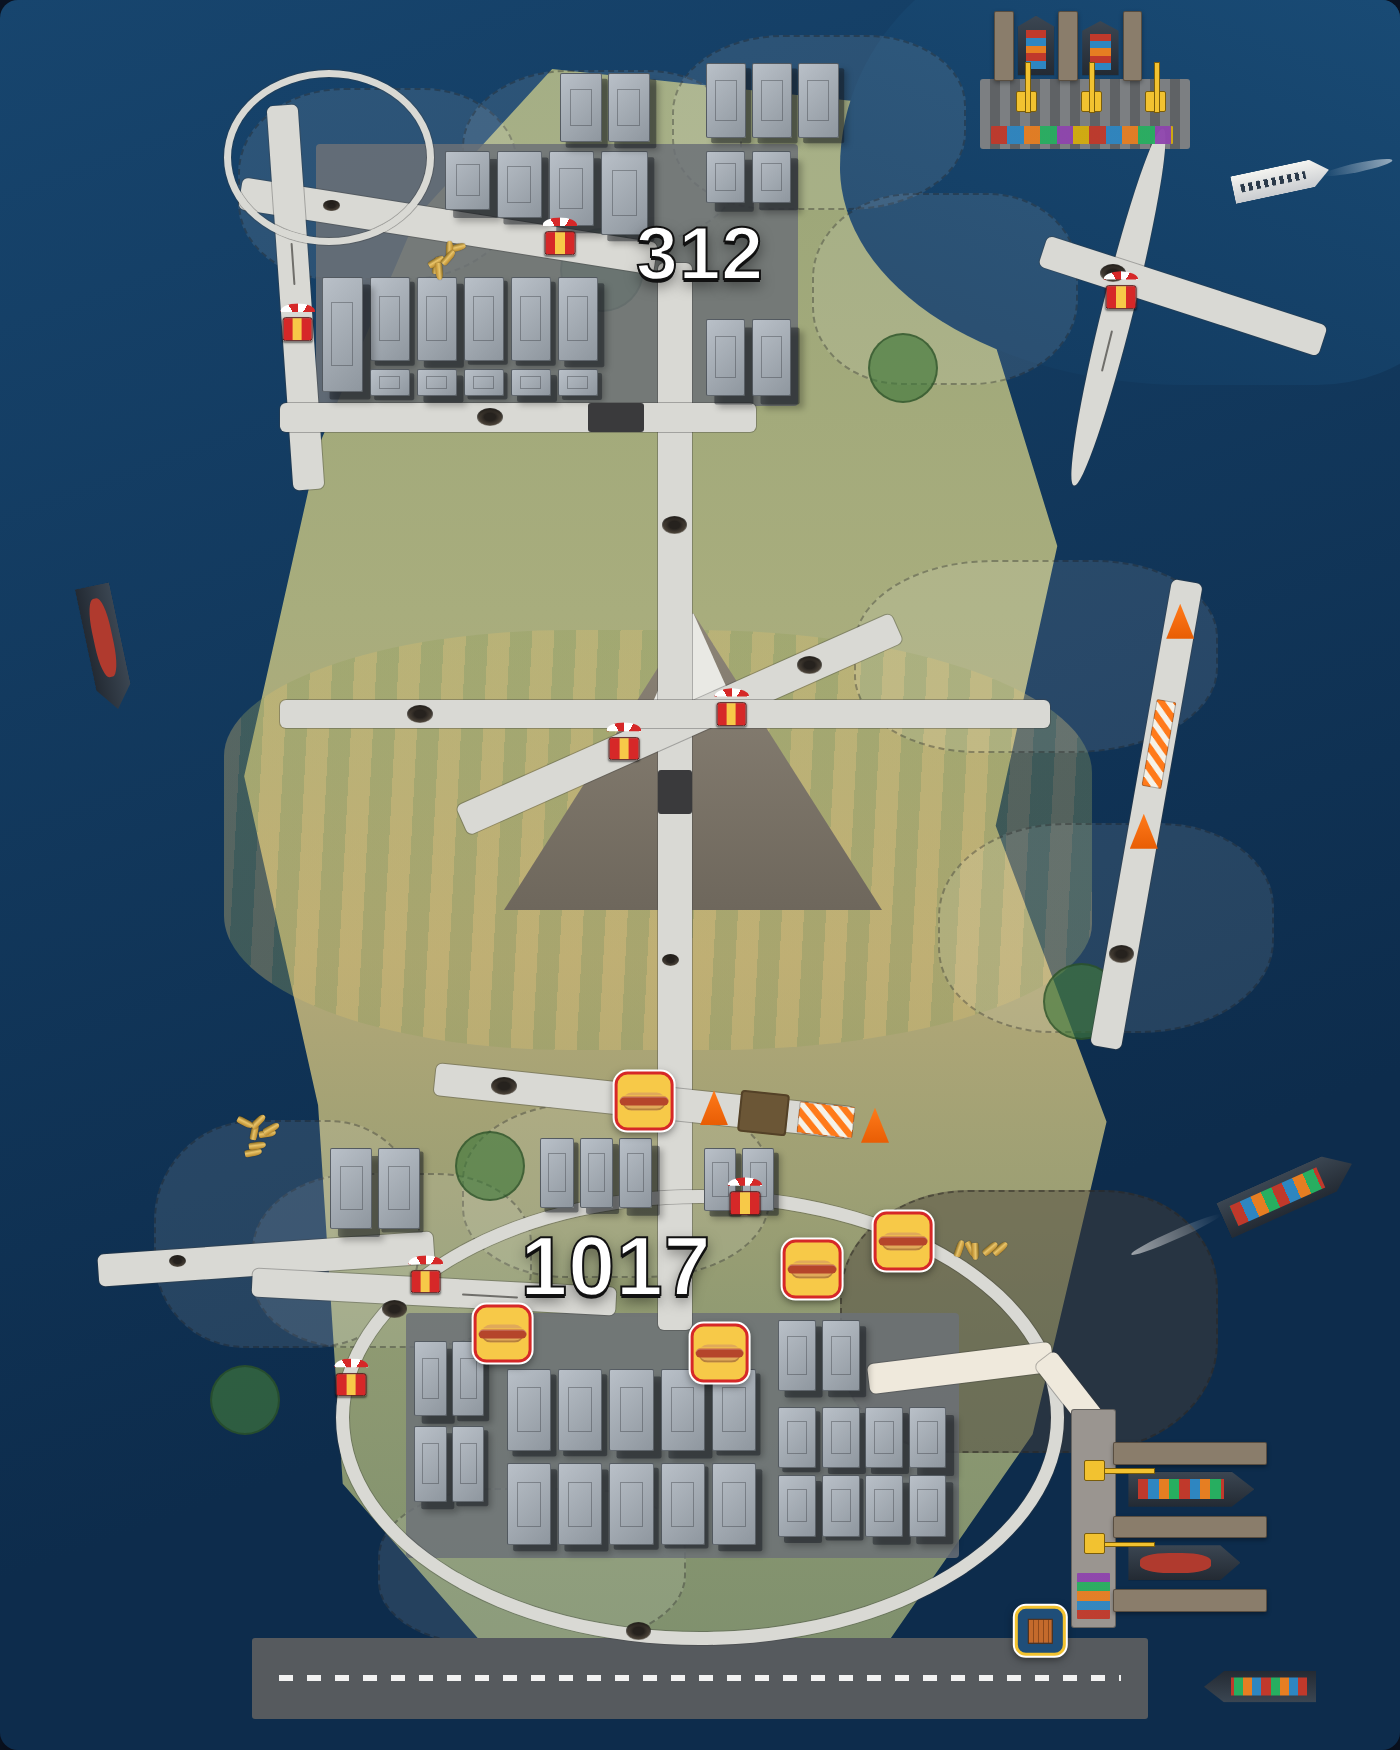
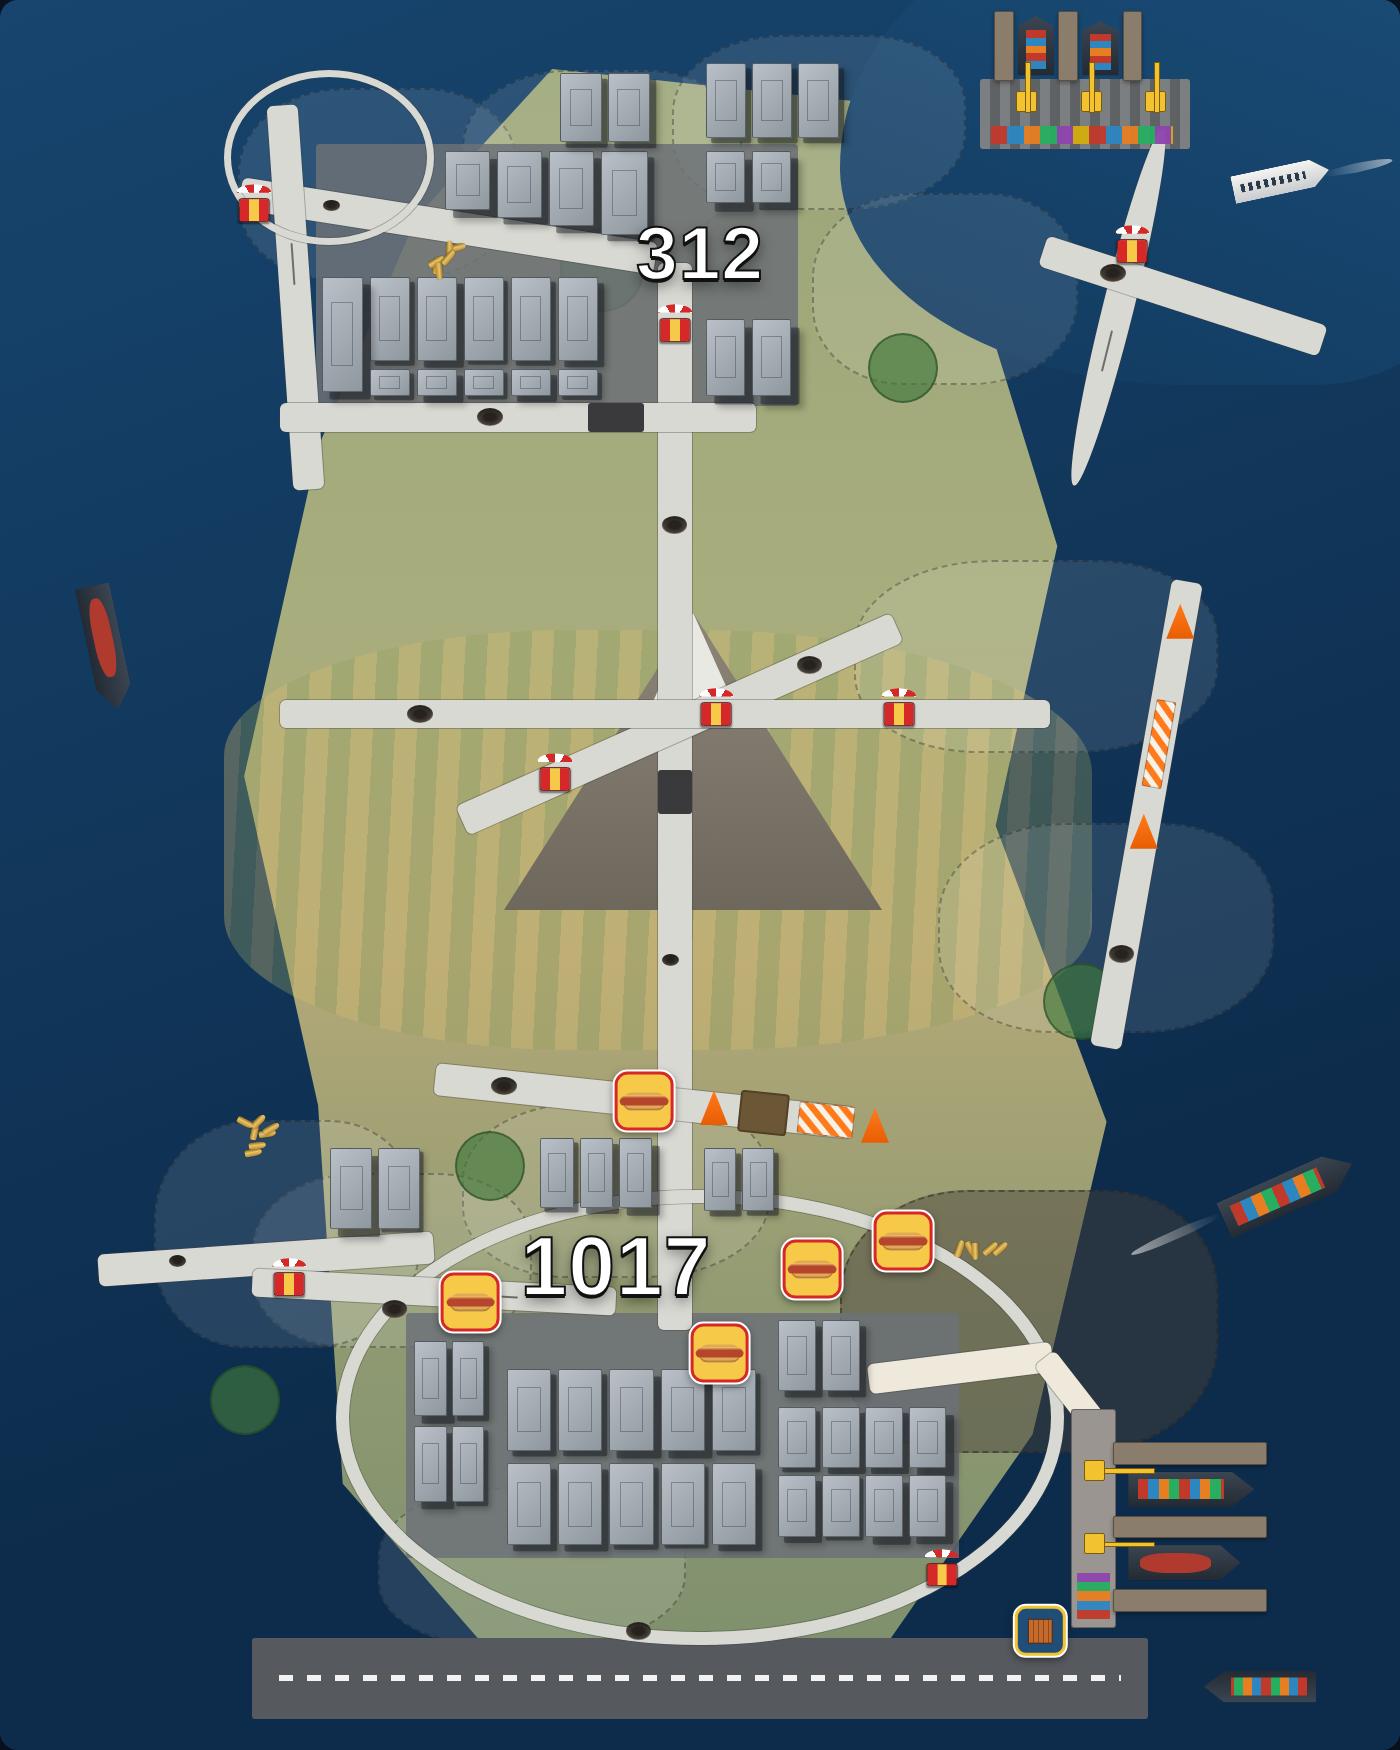
Move the west 1017 Glizzys-2-Go station off the towers
It now sits on Peachline Road just above the west tower block, left of the
1017 label, touching no roof.

Claude-Session: https://claude.ai/code/session_01FagBtygwPmHUod4bPZTnD1

diff --git a/map-detail-glizzys-2-go.js b/map-detail-glizzys-2-go.js
@@ -29,7 +29,7 @@
         [58, 72.5, 6],                           // the job station
         [46.0, 62.9, 6],            // job station, Red Clay Expressway, by the Connector
         [64.5, 70.9, 6],            // job station, the Perimeter, north-east
-        [35.9, 76.2, 6],            // job station, 1017 downtown, west
+        [33.6, 74.4, 6],            // job station, 1017 downtown, west
         [51.4, 77.3, 6],            // job station, 1017 downtown, the Connector's end
         [44, 73, 9],                             // under the 1017 label
         [56, 63.3, 7],                           // construction, Red Clay Expressway

diff --git a/map-detail-glizzys-2-go.css b/map-detail-glizzys-2-go.css
@@ -33,5 +33,5 @@
   .glizzys-2-go-station { left: 58%; top: 72.5%; }   /* the depot */
   .glizzys-2-go-station-2 { left: 46.0%; top: 62.9%; }   /* Red Clay Expressway, by the Connector */
   .glizzys-2-go-station-3 { left: 64.5%; top: 70.9%; }   /* the Perimeter, north-east */
-  .glizzys-2-go-station-4 { left: 35.9%; top: 76.2%; }   /* 1017 downtown, west */
+  .glizzys-2-go-station-4 { left: 33.6%; top: 74.4%; }   /* 1017 downtown, west — on Peachline, above the towers */
   .glizzys-2-go-station-5 { left: 51.4%; top: 77.3%; }   /* 1017 downtown, the Connector's end */
